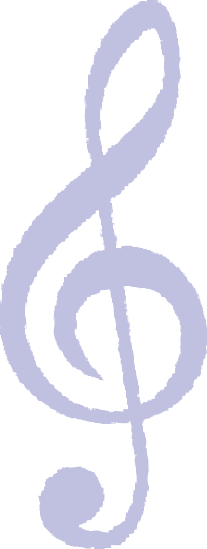
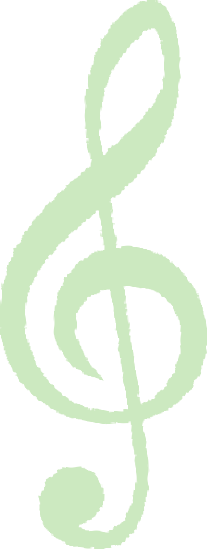
v1.3.3 (dev:352dc01)

diff --git a/game/script.min.js b/game/script.min.js
@@ -18,7 +18,7 @@ b.moveTo((384-b.width)/2,25.6);this.addChild(b);for(var c=Class.create(Button2,{
 null!==document.fullScreenElement||!document.mozFullScreen&&!document.webkitIsFullScreen?document.documentElement.requestFullScreen?document.documentElement.requestFullScreen():document.documentElement.mozRequestFullScreen?document.documentElement.mozRequestFullScreen():document.documentElement.webkitRequestFullScreen&&document.documentElement.webkitRequestFullScreen(Element.ALLOW_KEYBOARD_INPUT):document.cancelFullScreen?document.cancelFullScreen():document.mozCancelFullScreen?document.mozCancelFullScreen():
 document.webkitCancelFullScreen&&document.webkitCancelFullScreen()});this.addChild(c);b=new Sprite(64,32);b.image=f.assets["resources/volume.png"];b.moveTo(c.x+c.width+5,c.y);b.on("touchend",function(b){w++;3<w&&(w=0);this._update();a.volume=w/3*.25});b._update=function(){this.frame=w};b._update();this.addChild(b);b=new Sprite(64,64);b.image=f.assets["resources/sorachan.png"];b.frame=0;b.scale(-1,1);b.moveTo(384-b.width-10,512-b.height-10);b.on("touchend",function(a){window.open("https://t.co/YVd92xsmZA")});
 c=new Sprite(64,42);c.image=f.assets["resources/sorach_balloon.png"];c.moveTo(b.x-c.width,b.y+(b.height-c.height)/2);c.on("touchend",function(a){window.open("https://t.co/YVd92xsmZA")});this.addChild(b);this.addChild(c)}}),K=Class.create(Scene,{initialize:function(a){Scene.call(this);this.stage_obj=a;this.backgroundColor="white";var b=this,c=new Sprite(384,512);c.image=f.assets["resources/bg_pattern1_aozora.jpg"];c.moveTo(0,0);this.addChild(c);this.bg=c;c=new Sprite(384,512);c.moveTo(0,0);var d=new Surface(c.width,
-c.height);d.context.fillStyle="rgba(0, 0, 128, 0.25)";for(var e=-2;2>=e;e++){var V=-c.y+512-16-32*(10+2*e);d.context.beginPath();d.context.fillRect(0,V-1,384,3)}d.draw(f.assets["resources/G_clef.png"],0,-10.24,96,409.6);c.image=d;this.addChild(c);c=new m(a.name,a.map,a.bpm);c.moveTo(0,0);this.addChild(c);this.stage=c;d=new W(c.speed,k.min_jump_vy(60.8));d.moveTo((384-d.width)/2,(512-d.height)/2);c.insertBefore(d,c.soraLayer);d.setInitPosition();this.soraChan=d;this.autoPlayer=new X(d,a.code);var q=
+c.height);d.context.fillStyle="rgba(32, 192, 0, 0.25)";for(var e=-2;2>=e;e++){var V=-c.y+512-16-32*(10+2*e);d.context.beginPath();d.context.fillRect(0,V-1,384,3)}d.draw(f.assets["resources/G_clef.png"],0,-10.24,96,409.6);c.image=d;this.addChild(c);c=new m(a.name,a.map,a.bpm);c.moveTo(0,0);this.addChild(c);this.stage=c;d=new W(c.speed,k.min_jump_vy(60.8));d.moveTo((384-d.width)/2,(512-d.height)/2);c.insertBefore(d,c.soraLayer);d.setInitPosition();this.soraChan=d;this.autoPlayer=new X(d,a.code);var q=
 new Label("");q.font="bold 16px "+y;q.color="red";q.textAlign="left";q.moveTo(0,0);q.on("enterframe",function(){q.text=10>f.actualFps?" LOW FPS!!":""});this.addChild(q);var g=new Label(" ");g.font="bold 32px "+y;g.color="lightcyan";g.textAlign="center";g.borderWidth=4;g.borderColor="skyblue";g.moveTo((384-g.width)/2,3);g.on("enterframe",function(){g.text="\u266a"+b.soraChan.sounded_soundGate_count+"/"+b.soraChan.passed_soundGate_count});this.addChild(g);c=new Group;d=new Sprite(32,32);d.image=f.assets["resources/Achan_icon.png"];
 d.moveTo(0,0);c.addChild(d);var t=new Label("x0  ");t.font="bold 20px "+y;t.color="lightcyan";t.textAlign="left";t.borderWidth=4;t.borderColor="skyblue";t.moveTo(d.x+d.width,d.y+(d.height-t._boundHeight)/2);t.on("enterframe",function(){t.text="x"+n.collection.length;t.color=b.amax_mode?"yellow":"lightcyan"});c.addChild(t);c.moveTo(384*.7,8);this.addChild(c);c=new Sprite(32,32);c.image=f.assets["resources/give_up.png"];c.moveTo(10,512-c.height-10);c.on("touchend",function(a){b.stage.state=m.STATE.GAMEOVER});
 this.addChild(c);this.result_showing=this.amax_mode=!1;this.soraSongMovieCard=a.card||null},ontouchend:function(a){this.soraChan.jump();for(a=0;a<n.collection.length;a++)n.collection[a].jump()},onenterframe:function(){switch(this.stage.state){case m.STATE.PLAYING:this.stage.updatePosition();this.soraChan.updatePosition();n.collection.forEach(function(a){a.updatePosition()});B.collection.forEach(function(a){a.updatePosition()});this.autoPlayer.update();if(32*this.stage.goal_gridx<=this.soraChan.x+
